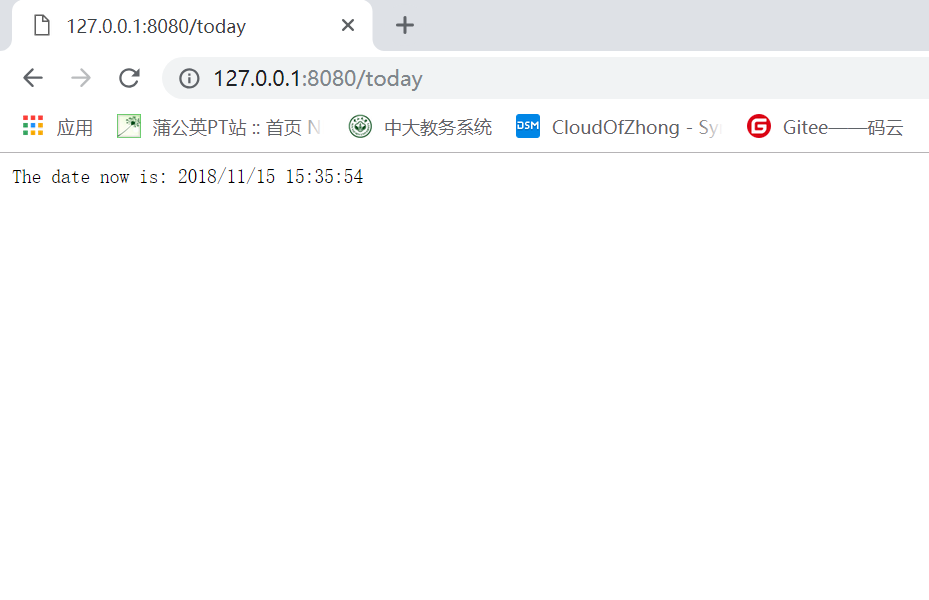
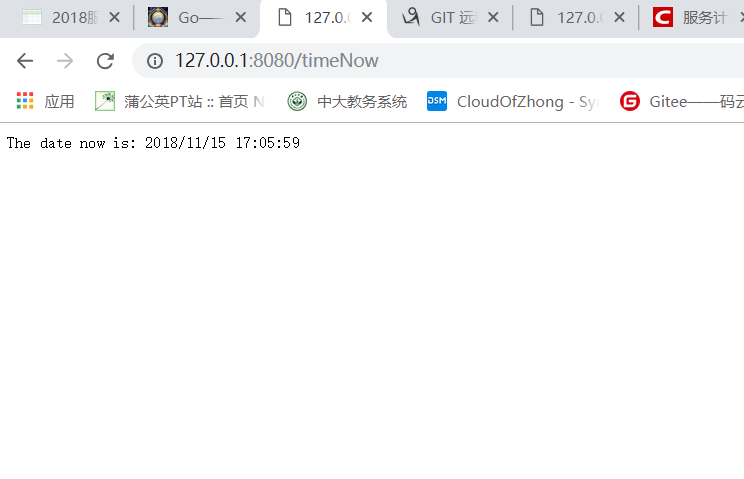
final version

Changed region(s): [[0.0, 0.1754, 1.0, 0.3215], [0.0, 0.0, 1.0, 0.1461], [0.0, 0.1169, 0.0927, 0.1461]]

diff --git a/CloudGo/static/js/timeNow.js b/CloudGo/static/js/timeNow.js
@@ -1,6 +1,6 @@
 $(document).ready(function() {
     $.ajax({
-        url: "/today"
+        url: "/timeNow"
     }).then(function(data) {
        $('.time').append(data);
     });

diff --git a/CloudGo/service/server.go b/CloudGo/service/server.go
@@ -35,7 +35,7 @@ func initRoutes(mx *mux.Router, formatter *render.Render) {
 
 	//对css/js/images的使用
 	mx.PathPrefix("/static").Handler(http.StripPrefix("/static/", http.FileServer(http.Dir(webRoot+"/static/"))))
-	mx.HandleFunc("/today", apitest(formatter)).Methods("GET")
+	mx.HandleFunc("/timeNow", showTime(formatter)).Methods("GET")
 	mx.HandleFunc("/", homeHandle).Methods("GET")
 	mx.HandleFunc("/", Login).Methods("POST")
 	//unknown

diff --git a/CloudGo/service/home.go b/CloudGo/service/home.go
@@ -8,7 +8,7 @@ import (
 	"github.com/unrolled/render"
 )
 
-func apitest(formatter *render.Render) http.HandlerFunc {
+func showTime(formatter *render.Render) http.HandlerFunc {
 	return func(w http.ResponseWriter, req *http.Request) {
 		formatter.Text(w, http.StatusOK,"The date now is: " +  time.Now().Format("2006/01/02 15:04:05"))
 	}

diff --git a/CloudGo/README.md b/CloudGo/README.md
@@ -39,16 +39,16 @@
         ![](截图/10.png)
         ![](截图/11.png)
 
-- 支持简单 js 访问，输入`http://127.0.0.1:8080/today`访问js，显示当前时间
+- 支持简单 js 访问，输入`http://127.0.0.1:8080/timeNow`访问js，显示当前时间
 
     ![](截图/2.png)
 
     ```go
-    mx.HandleFunc("/today", apitest(formatter)).Methods("GET")
+    mx.HandleFunc("/timeNow", showTime(formatter)).Methods("GET")
     ```
-    `对url为"/today"的请求进行处理，具体实现是下面定义的apitest函数`，主要实现是获得并显示出当前请求的具体时间。
+    `对url为"/timeNow"的请求进行处理，具体实现是下面定义的showTime函数`，主要实现是获得并显示出当前请求的具体时间。
     ```go
-    func apitest(formatter *render.Render) http.HandlerFunc {
+    func showTime(formatter *render.Render) http.HandlerFunc {
         return func(w http.ResponseWriter, req *http.Request) {
             formatter.Text(w, http.StatusOK,"The date now is: " +  time.Now().Format("2006/01/02 15:04:05"))
         }
